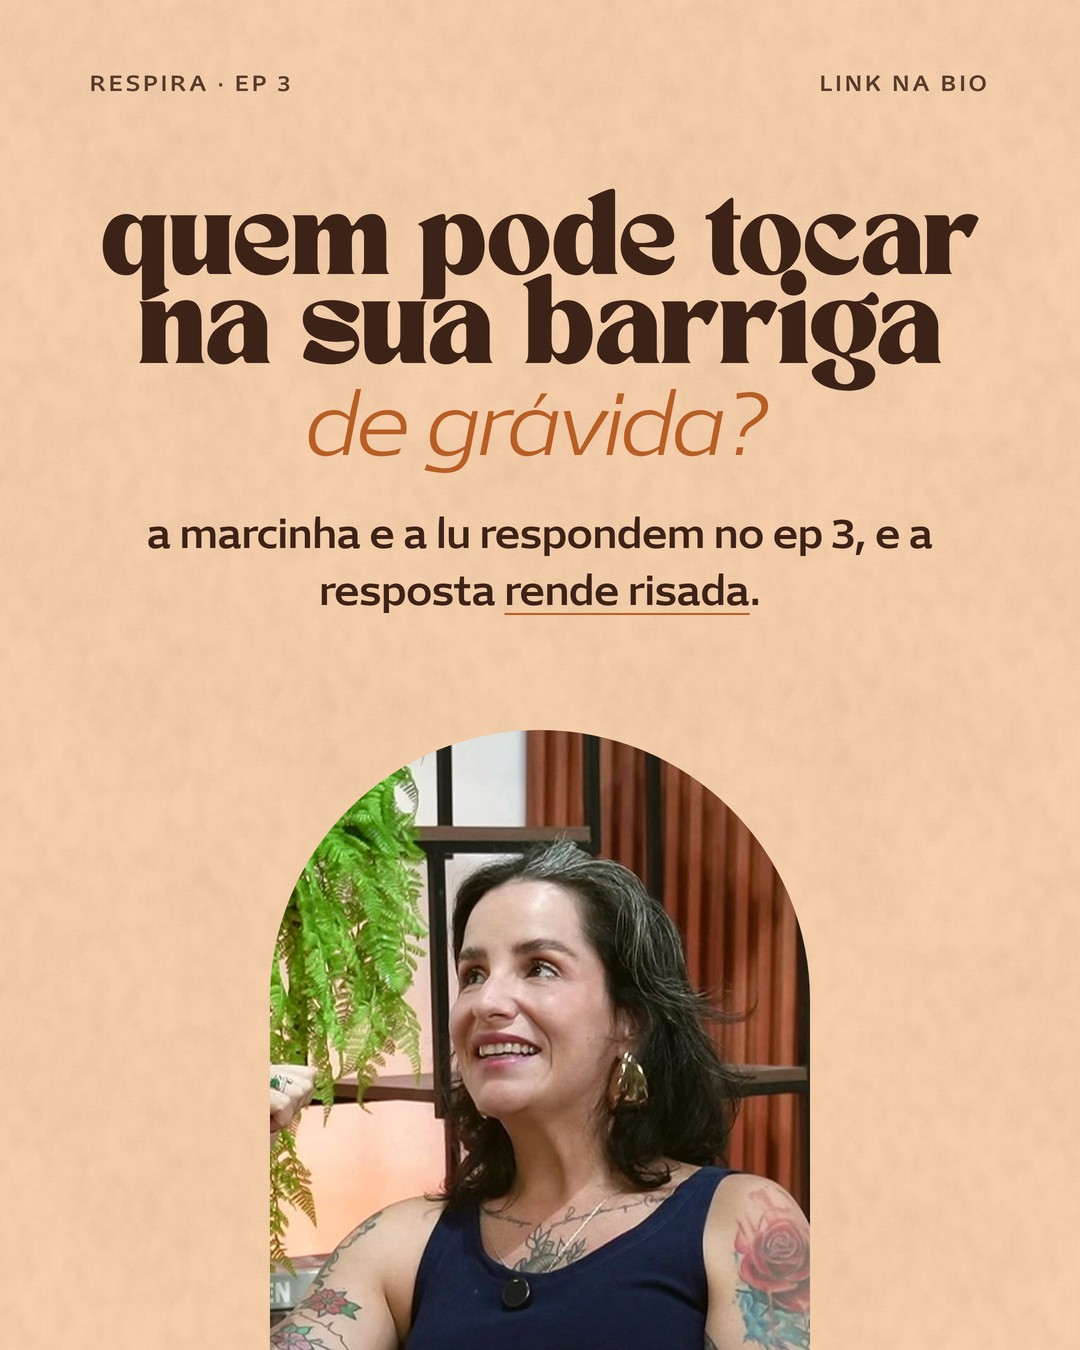
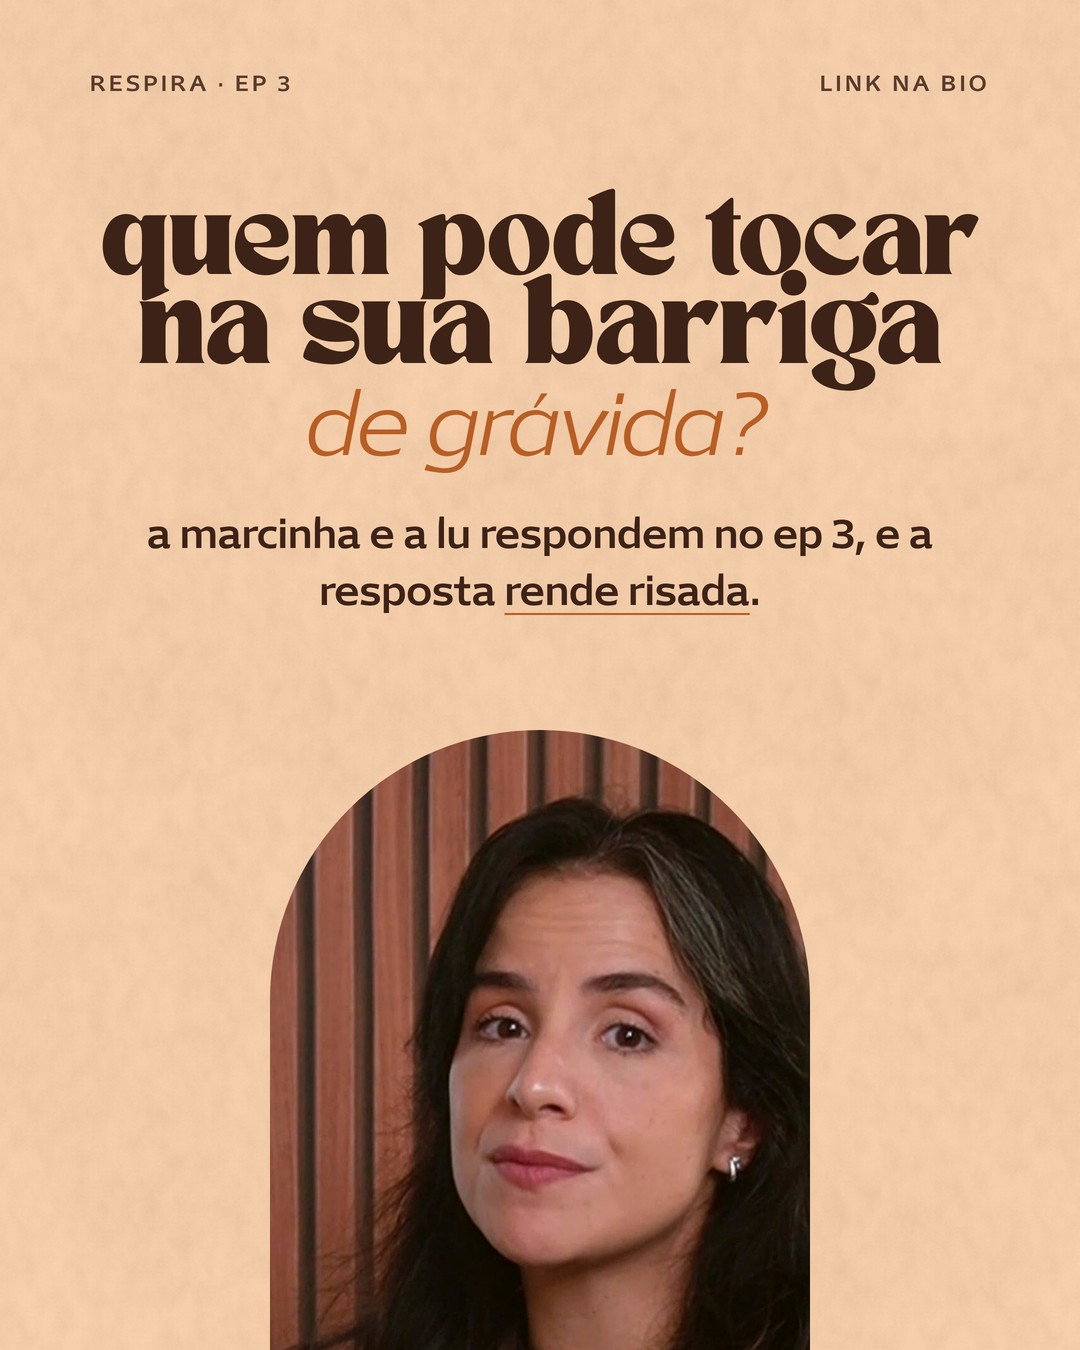
Fotos novas nos estáticos de 05/12 (EP5) e 02/01 (EP3)
Claude-Session: https://claude.ai/code/session_01C5h4HANprbeLZgGFpCYk5C

Changed region(s): [[0.2444, 0.5289, 0.7639, 1.0]]

diff --git a/posts_data.js b/posts_data.js
@@ -110,7 +110,7 @@ const POSTS = [
   { data:"2026-12-03", tema:"Corte do episódio", placeholder:true },
   { data:"2026-12-04", tema:"Identificação", tipo:"carrossel", titulo:"Carrossel do EP 36: o único medo da gravidez dela", legenda:"\"Mamãe, eu queria nascer prematura e você não deixou.\"\n\nA Tereza disse isso há pouco tempo, do nada. E a Marcinha, que passou a gravidez inteira contando as semanas, respondeu sem pensar duas vezes: não deixei mesmo.\n\nObstetra, ela não teve medo do parto. O medo era a Tereza chegar antes. No episódio 36, gravado para o Novembro Roxo, a neonatologista Luisa Petri conversa com a Marcinha e a Lu sobre os bebês que chegam antes e as famílias que esperam por eles na UTI. Link na bio.\n\n#RespiraVaiPassar #NovembroRoxo #Prematuridade #Gravidez #MaternidadeReal", slides:[{img:"imagens/p32-1.jpg"},{img:"imagens/p32-2.jpg"},{img:"imagens/p32-3.jpg"},{img:"imagens/p32-4.jpg"},{img:"imagens/p32-5.jpg"},{img:"imagens/p32-6.jpg"},{img:"imagens/p32-7.jpg"}] },
   { data:"2026-12-05", tema:"Identificação", tipo:"imagem", titulo:"O parto acontece entre as orelhas, não entre as pernas", legenda:"A analgesia é a intervenção mais usada no trabalho de parto, e não tem nada de errado nisso. A Marcinha costuma repetir uma frase que resume bem o que ela vê todos os dias no consultório: o parto acontece entre as orelhas, não entre as pernas. A cabeça da mulher, o quanto ela se sente segura e acompanhada, pesa tanto quanto a parte física. Ela já teve uma assistência de 44 horas, a mais longa da carreira dela, e segue acreditando nisso.\n\nA assistência mais longa da carreira dela está nesse episódio. 44 horas. Episódio 5, link na bio.\n\n#RespiraVaiPassar #TrabalhoDeParto #PartoHumanizado", slides:[
-      {img:"imagens/p24-1.jpg?v=2"}
+      {img:"imagens/p24-1.jpg?v=3"}
     ] },
   { data:"2026-12-07", tema:"Corte do episódio", placeholder:true },
   { data:"2026-12-08", tema:"Tema da semana", placeholder:true },
@@ -138,7 +138,7 @@ const POSTS = [
   { data:"2026-12-31", tema:"Corte do episódio", placeholder:true },
   { data:"2027-01-01", tema:"Carrossel do episódio", placeholder:true },
   { data:"2027-01-02", tema:"Humor", tipo:"imagem", titulo:"Quem pode tocar na sua barriga de grávida", legenda:"Tem gente que acha que barriga de grávida é propriedade pública. No episódio sobre gestação, a Marcinha e a Luisa falam sobre as polêmicas que toda mulher grávida enfrenta: quem pode tocar na barriga, o que fazer com o ranço do parceiro sumindo, se dá pra conversar com o bebê e como fica a vida sexual durante a gravidez. Respira fundo e lembra: seu corpo, suas regras.\n\nA resposta pra essa pergunta rende risada garantida. Episódio 3, link na bio.\n\n#RespiraVaiPassar #Gestação #MaternidadeReal", slides:[
-      {img:"imagens/p28-1.jpg?v=2"}
+      {img:"imagens/p28-1.jpg?v=3"}
     ] },
   { data:"2027-01-04", tema:"Corte do episódio", placeholder:true },
   { data:"2027-01-05", tema:"Tema da semana", placeholder:true },
